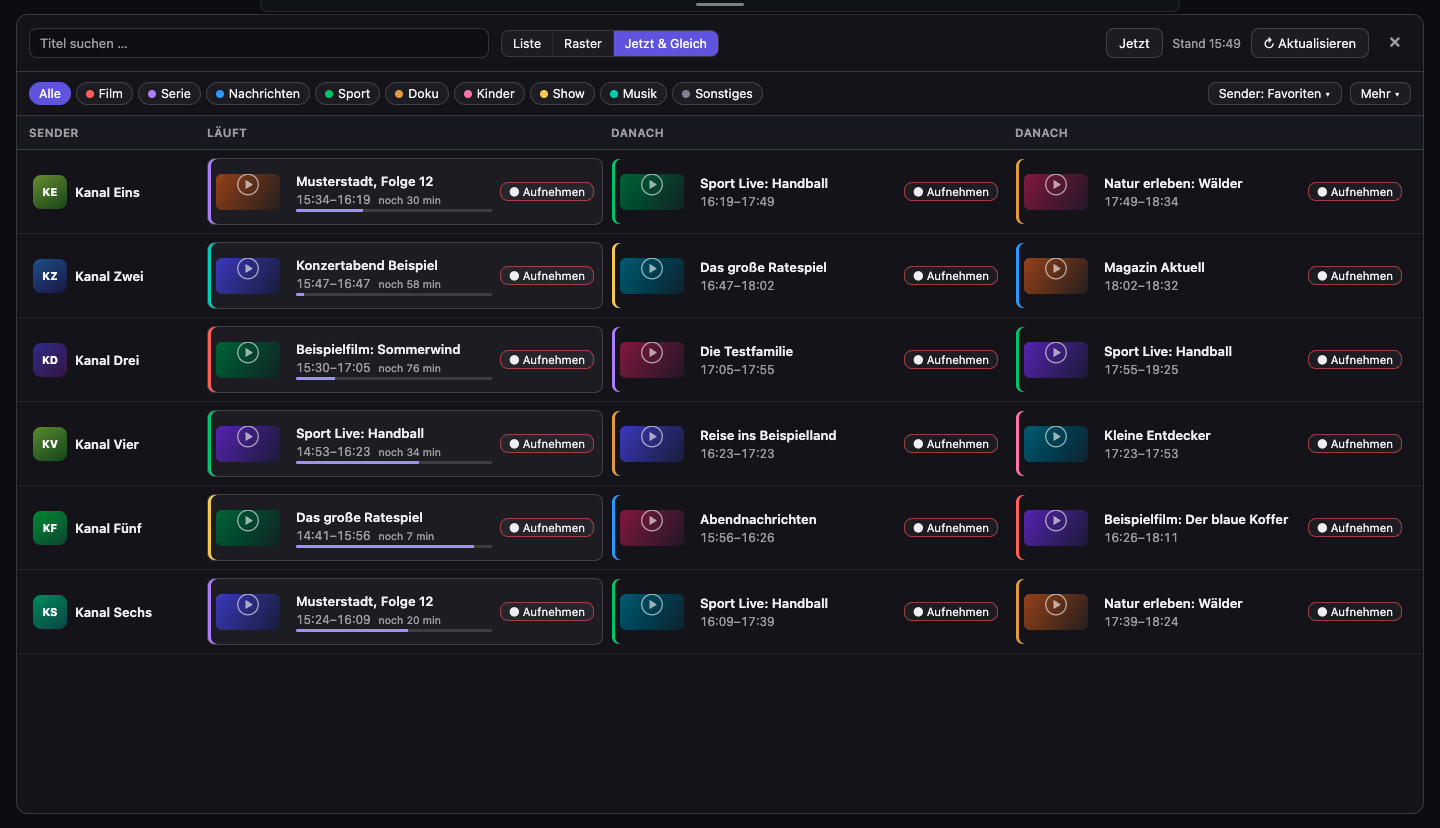
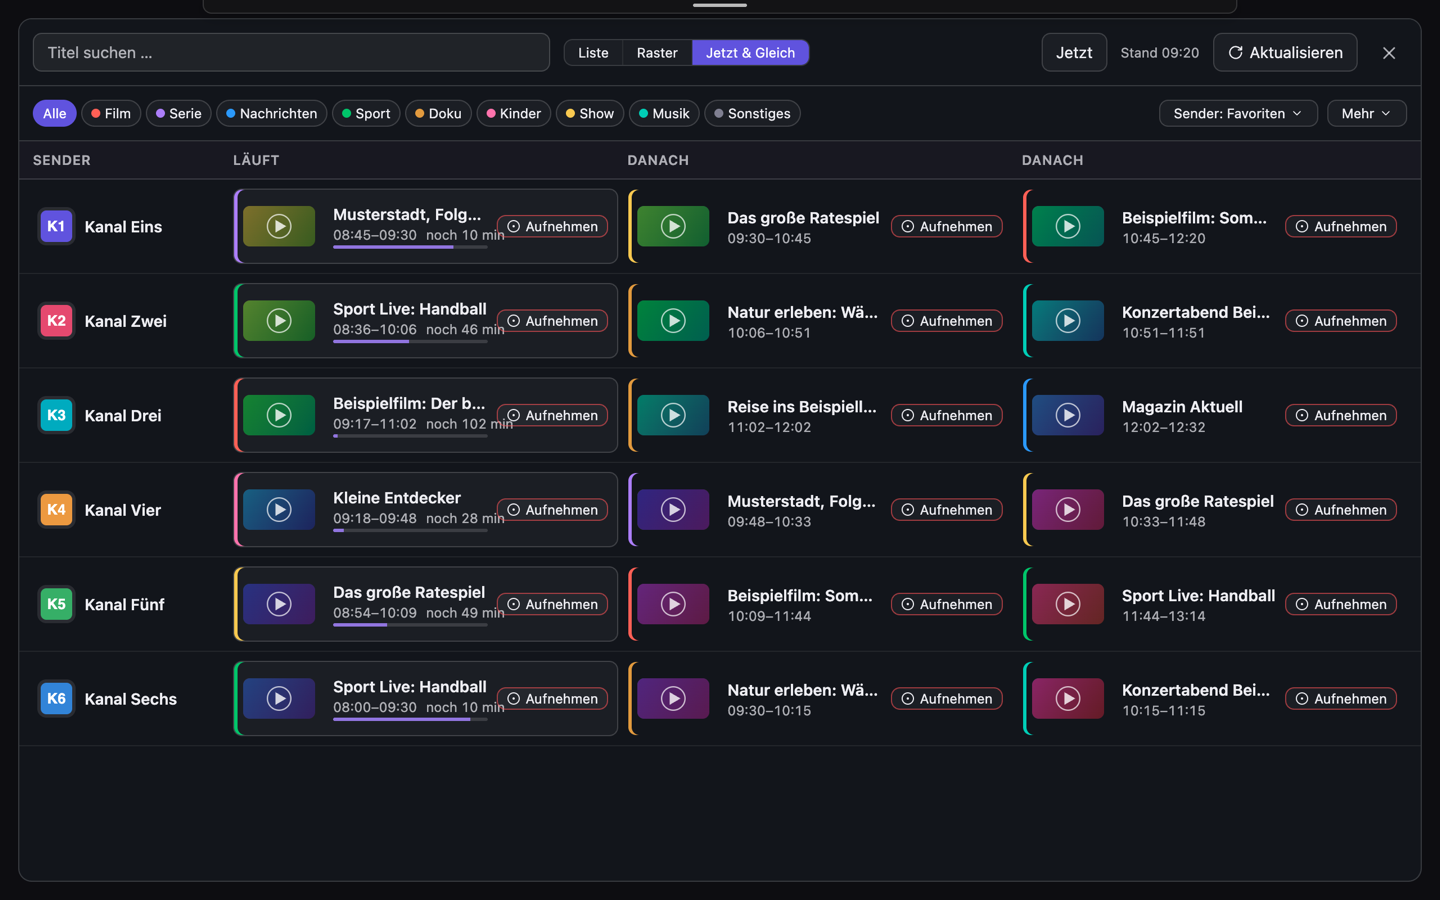
docs(design): README-Screenshots im neuen Design, GIF der Hover-Vorschau (8c)

Changed region(s): [[0.0, 0.0, 0.9688, 0.8152], [0.7188, 0.0302, 1.0, 0.151], [0.875, 0.4227, 0.9688, 0.4831]]

diff --git a/scripts/readme-screenshots-epg.js b/scripts/readme-screenshots-epg.js
@@ -1,0 +1,252 @@
+'use strict';
+
+// Erzeugt die EPG-Screenshots der README (epg-liste, epg-raster, epg-jetzt-gleich, epg-genre-filter, epg-kanalansicht,
+// epg-sendung-detail), den Aufnahme-Dialog (aufnahme-dialog.png) und das GIF der Hover-Vorschau auf einer
+// Senderkachel (livetv-hover-vorschau.gif) aus einem isolierten Profil mit erfundenen Daten: Kanal Eins bis Sechs,
+// XMLTV-Fixture, Poster/Vorschaubilder als lokal beantwortete SVGs (page.route), Videobild aus einem lokal erzeugten
+// HLS-Teststrom (ffmpeg lavfi, Server auf localhost (die E2E-Startargumente sperren IP-Literale)). Kein Netz, keine echten Nutzerdaten.
+//
+// Aufruf (vorher `npm run build:renderer`): node scripts/readme-screenshots-epg.js [Zielordner]
+// Voraussetzung: bin/ffmpeg. Fenster 1280x800 bei Skalierung 2 (PNG 2560x1600, danach `sips -Z 1440 <Datei>`);
+// das GIF entsteht bei Skalierung 1 und 800 px Breite. Nur für Doku-Zwecke, scripts/ wird nicht ausgeliefert.
+
+const { execFileSync } = require('child_process');
+const fs = require('fs');
+const http = require('http');
+const os = require('os');
+const path = require('path');
+const { _electron: electron } = require('@playwright/test');
+const { resolveLaunchTarget, launchArgs, backgroundEnv } = require('../e2e/platform');
+
+const OUT = path.resolve(process.argv[2] || path.join(__dirname, '..', 'assets', 'screenshots'));
+const FFMPEG = path.join(__dirname, '..', 'bin', 'ffmpeg');
+const MIN = 60 * 1000;
+const sleep = ms => new Promise(resolve => setTimeout(resolve, ms));
+const NAMES = ['Kanal Eins', 'Kanal Zwei', 'Kanal Drei', 'Kanal Vier', 'Kanal Fünf', 'Kanal Sechs'];
+const COLORS = ['#6c5ce7', '#e0527a', '#2db4c8', '#e8a33c', '#52b86f', '#4a8fe0'];
+const SHOWS = [
+  ['Musterstadt, Folge 12', 'Serie', 45],
+  ['Konzertabend Beispiel', 'Musik', 60],
+  ['Abendnachrichten', 'Nachrichten', 30],
+  ['Sport Live: Handball', 'Sport', 90],
+  ['Reise ins Beispielland', 'Dokumentation', 60],
+  ['Das große Ratespiel', 'Show', 75],
+  ['Die Testfamilie', 'Serie', 50],
+  ['Kleine Entdecker', 'Kinder', 30],
+  ['Natur erleben: Wälder', 'Dokumentation', 45],
+  ['Magazin Aktuell', 'Nachrichten', 30],
+  ['Beispielfilm: Sommerwind', 'Film', 95],
+  ['Beispielfilm: Der blaue Koffer', 'Film', 105],
+];
+const DETAIL = 'Beispielfilm: Der blaue Koffer';
+
+function xmltvTime(ms) {
+  const d = new Date(ms);
+  const p = n => String(n).padStart(2, '0');
+  return `${d.getUTCFullYear()}${p(d.getUTCMonth() + 1)}${p(d.getUTCDate())}${p(d.getUTCHours())}${p(d.getUTCMinutes())}00 +0000`;
+}
+
+function buildEpg(base) {
+  const out = ['<?xml version="1.0" encoding="UTF-8"?><tv>'];
+  NAMES.forEach((name, i) => out.push(`<channel id="k${i + 1}.example"><display-name>${name}</display-name></channel>`));
+  let n = 0;
+  NAMES.forEach((_name, i) => {
+    let t = base - (35 + i * 9) * MIN;
+    for (let k = 0; t < base + 60 * 60 * MIN; k += 1) {
+      const [title, genre, minutes] = SHOWS[(k * 5 + i * 3) % SHOWS.length];
+      const full = title === DETAIL;
+      const extra = full
+        ? '<sub-title lang="de">Ein Beispiel-Untertitel</sub-title><credits><director>Anna Beispiel</director><actor>Max Mustermann</actor><actor>Erika Musterfrau</actor><actor>Jan Testmann</actor></credits><date>2021</date><episode-num system="onscreen">S2 E3</episode-num><rating system="FSK"><value>FSK 12</value></rating>'
+        : '';
+      n += 1;
+      out.push(
+        `<programme start="${xmltvTime(t)}" stop="${xmltvTime(t + minutes * MIN)}" channel="k${i + 1}.example"><title lang="de">${title}</title>${extra}<desc lang="de">Kurzbeschreibung der Beispielsendung „${title}“. Alle Inhalte sind frei erfundene Testdaten.</desc><category lang="de">${genre}</category><icon src="https://bilder.example/p/${n}.svg"/></programme>`,
+      );
+      t += minutes * MIN;
+    }
+  });
+  out.push('</tv>');
+  return out.join('\n');
+}
+
+function posterSvg(n) {
+  const hue = (n * 47) % 360;
+  return `<svg xmlns="http://www.w3.org/2000/svg" viewBox="0 0 160 240"><defs><linearGradient id="g" x1="0" y1="0" x2="1" y2="1"><stop offset="0" stop-color="hsl(${hue},55%,38%)"/><stop offset="1" stop-color="hsl(${(hue + 50) % 360},60%,24%)"/></linearGradient></defs><rect width="160" height="240" fill="url(#g)"/><circle cx="80" cy="120" r="26" fill="none" stroke="#fff" stroke-opacity=".7" stroke-width="3"/><path d="M72 106l24 14-24 14z" fill="#fff" fill-opacity=".8"/></svg>`;
+}
+
+/** HLS-Teststrom (VOD-Liste, 14 s buntes Muster) und Server mit CORS auf localhost. */
+async function startStream(dir) {
+  const hls = path.join(dir, 'hls');
+  fs.mkdirSync(hls);
+  execFileSync(
+    FFMPEG,
+    ['-v', 'error', '-f', 'lavfi', '-i', 'gradients=s=640x360:r=25:d=14:speed=0.03:n=4', '-an', '-c:v', 'libx264', '-preset', 'veryfast', '-pix_fmt', 'yuv420p', '-g', '25', '-f', 'hls', '-hls_time', '2', '-hls_list_size', '0', '-hls_playlist_type', 'vod', path.join(hls, 'live.m3u8')],
+    { timeout: 120_000 },
+  );
+  const server = http.createServer((req, res) => {
+    const file = path.join(hls, path.basename(req.url.split('?')[0]));
+    if (!fs.existsSync(file)) {
+      res.writeHead(404);
+      res.end();
+      return;
+    }
+    const type = file.endsWith('.m3u8') ? 'application/vnd.apple.mpegurl' : 'video/mp2t';
+    res.writeHead(200, { 'Content-Type': type, 'Access-Control-Allow-Origin': '*', 'Cache-Control': 'no-store' });
+    res.end(fs.readFileSync(file));
+  });
+  await new Promise(resolve => server.listen(0, '127.0.0.1', resolve));
+  return { server, url: `http://localhost:${server.address().port}/live.m3u8` };
+}
+
+async function launch(root, base, streamUrl, scale) {
+  const home = path.join(root, 'home');
+  const userData = path.join(root, 'ud');
+  const logos = path.join(root, 'logos');
+  [home, userData, logos].forEach(d => fs.mkdirSync(d, { recursive: true }));
+  const channels = NAMES.map((name, i) => {
+    const logo = path.join(logos, `${i + 1}.svg`);
+    fs.writeFileSync(logo, `<svg xmlns="http://www.w3.org/2000/svg" viewBox="0 0 100 100"><rect width="100" height="100" rx="18" fill="${COLORS[i]}"/><text x="50" y="66" font-family="Helvetica,Arial,sans-serif" font-size="46" font-weight="700" text-anchor="middle" fill="#fff">K${i + 1}</text></svg>`);
+    return { id: `k${i + 1}.example`, name, logo: `file://${logo}` };
+  });
+  const m3u = path.join(root, 'beispiel.m3u');
+  fs.writeFileSync(m3u, '#EXTM3U\n' + channels.map(c => `#EXTINF:-1 tvg-id="${c.id}" tvg-logo="${c.logo}" group-title="Allgemein",${c.name}\n${streamUrl}\n`).join(''));
+  const epg = path.join(root, 'epg.xml');
+  fs.writeFileSync(epg, buildEpg(base));
+  fs.writeFileSync(path.join(userData, 'tvsources.json'), JSON.stringify([{ id: 'bsq', name: 'Beispielquelle', url: m3u, type: 'file', color: '#a78bfa', epgUrl: 'https://epg.example/epg.xml', sortOrder: [], favorites: channels.map(c => c.id) }]));
+  const target = resolveLaunchTarget();
+  const app = await electron.launch({
+    executablePath: target.executablePath,
+    args: [...launchArgs(target), `--force-device-scale-factor=${scale}`],
+    env: { ...process.env, HOME: home, STREAMING_HUB_USER_DATA: userData, ...backgroundEnv(), STREAMING_HUB_EPG_FIXTURE: epg, STREAMING_HUB_UPDATE_URL: 'http://127.0.0.1:9' },
+    timeout: 45_000,
+  });
+  const page = await app.firstWindow();
+  if (process.env.DBG) page.on('console', m => console.log('[c]', m.text().slice(0, 200)));
+  await page.waitForLoadState('domcontentloaded');
+  await page.emulateMedia({ colorScheme: 'dark' }); // README zeigt das dunkle Design
+  await page.locator('#dashboardView').waitFor();
+  await app.evaluate(({ BrowserWindow }) => BrowserWindow.getAllWindows()[0].setContentSize(1280, 800));
+  await page.route('https://bilder.example/**', route => {
+    const n = Number((route.request().url().match(/(\d+)\.svg/) || [0, 1])[1]);
+    return route.fulfill({ status: 200, contentType: 'image/svg+xml', body: posterSvg(n) });
+  });
+  for (let i = 0; i < 60; i += 1) {
+    const status = await page.evaluate(() => window.electronAPI.getEpgStatus());
+    if (status.sources.reduce((n, s) => n + s.channelCount, 0) >= 6) break;
+    await sleep(500);
+  }
+  await sleep(800);
+  return { app, page };
+}
+
+async function epgShots(root, base, streamUrl) {
+  const { app, page } = await launch(root, base, streamUrl, 2);
+  const shot = async name => {
+    await page.mouse.move(640, 790);
+    await sleep(900);
+    await page.screenshot({ path: path.join(OUT, name) });
+    console.log('ok', name);
+  };
+  await page.locator('.dashboard-section-tile[data-section="livetv"]').click();
+  await page.locator('#dashboardEpgOpen').click();
+  await page.locator('#epgOverlay').waitFor({ state: 'visible' });
+  await page.mouse.move(640, 790);
+  await page.locator('#epgOverlay[data-state="ready"]').waitFor();
+  await page.locator('#epgModeList').click();
+  await sleep(600);
+  await shot('epg-liste.png');
+  await page.locator('#epgModeGrid').click();
+  await page.locator('#epgGrid').waitFor({ state: 'visible' });
+  await shot('epg-raster.png');
+  await page.locator('#epgModeJng').click();
+  await page.locator('#epgJng').waitFor({ state: 'visible' });
+  await shot('epg-jetzt-gleich.png');
+  await page.locator('#epgModeList').click();
+  await page.locator('#epgGenre_film').click();
+  await sleep(500);
+  await shot('epg-genre-filter.png');
+  await page.locator('#epgGenreAll').click();
+  await sleep(300);
+  await page.locator('.epg-list-row', { hasText: DETAIL }).first().locator('.epg-row-open').click();
+  await page.locator('#epgDetailBackdrop').waitFor({ state: 'visible' });
+  await shot('epg-sendung-detail.png');
+  await page.locator('#epgDetailChannelBtn, #epgDetailAllBtn, button:has-text("Alle Sendungen des Senders")').first().click();
+  await sleep(900);
+  await shot('epg-kanalansicht.png');
+  await app.close().catch(() => {});
+}
+
+async function recordDialog(root, base, streamUrl) {
+  const { app, page } = await launch(root, base, streamUrl, 2);
+  await page.locator('.dashboard-section-tile[data-section="livetv"]').click();
+  await page.locator('#dashboardHub').waitFor({ state: 'visible' });
+  await page.locator('.dashboard-tv-tile', { hasText: 'Kanal Eins' }).first().click();
+  await sleep(4000);
+  const tv = app.windows().find(w => w.url().includes('tv.html'));
+  await tv.emulateMedia({ colorScheme: 'dark' });
+  await page.mouse.move(640, 740);
+  await sleep(300);
+  await page.mouse.move(700, 760);
+  await sleep(500);
+  await tv.locator('#tvRecordBtn').click({ timeout: 8000 }).catch(() => tv.locator('#tvRecordBtn').dispatchEvent('click'));
+  await tv.locator('#tvRecStartShow').waitFor({ state: 'visible' });
+  await page.mouse.move(1000, 640);
+  await sleep(800);
+  await page.screenshot({ path: path.join(OUT, 'aufnahme-dialog.png') });
+  console.log('ok aufnahme-dialog.png');
+  await app.close().catch(() => {});
+}
+
+async function hoverGif(root, base, streamUrl) {
+  const { app, page } = await launch(root, base, streamUrl, 1);
+  await page.locator('.dashboard-section-tile[data-section="livetv"]').click();
+  await page.locator('#dashboardHub').waitFor({ state: 'visible' });
+  const tile = page.locator('.dashboard-tv-tile', { hasText: 'Kanal Zwei' }).first();
+  await tile.scrollIntoViewIfNeeded();
+  await sleep(800);
+  if (process.env.DBG) console.log(await page.evaluate(async u => { try { const r = await fetch(u); const t = await r.text(); const seg = t.split('\n').find(l => l.endsWith('.ts')); const r2 = await fetch(new URL(seg, u)); return r.status + ' ' + t.slice(0, 80).replace(/\n/g, '|') + ' seg ' + r2.status + ' ' + r2.headers.get('content-type'); } catch (e) { return 'ERR ' + e.message; } }, streamUrl));
+  const box = await tile.boundingBox();
+  if (process.env.DBG) await page.evaluate(() => { window.__ev = []; const t = document.querySelectorAll('.dashboard-tv-tile')[1]; for (const e of ['mouseenter', 'mouseleave', 'focus', 'blur']) t.addEventListener(e, () => window.__ev.push(e + '@' + Math.round(performance.now()))); window.__log = []; new MutationObserver(ms => ms.forEach(m => m.addedNodes.forEach(n => { if (n.tagName === 'VIDEO') { window.__log.push('video+'); for (const e of ['error', 'playing', 'loadeddata', 'emptied']) n.addEventListener(e, () => window.__log.push(e + (n.error ? n.error.message : ''))); } }))).observe(t, { childList: true }); });
+  const frames = path.join(root, 'frames');
+  fs.mkdirSync(frames);
+  let count = 0;
+  const grab = async () => page.screenshot({ path: path.join(frames, `f${String(count++).padStart(3, '0')}.png`) });
+  await page.mouse.move(640, 790);
+  const t0 = Date.now();
+  for (let i = 0; i < 4; i += 1) await grab();
+  await page.mouse.move(box.x + box.width / 2, box.y + box.height / 2, { steps: 6 });
+  while (Date.now() - t0 < 6500) await grab();
+  if (process.env.DBG) console.log(await page.evaluate(() => { const v = document.querySelector('.dashboard-tv-preview'); return JSON.stringify({ v: !!v, err: v && v.error && v.error.message, rs: v && v.readyState, cls: document.querySelector('.is-previewing') !== null, hls: typeof Hls, log: window.__log, ev: window.__ev }); }));
+  await page.mouse.move(640, 790, { steps: 6 });
+  const t1 = Date.now();
+  while (Date.now() - t1 < 1200) await grab();
+  const fps = (count / ((Date.now() - t0) / 1000)).toFixed(2);
+  console.log('frames', count, 'fps', fps);
+  const gif = path.join(OUT, 'livetv-hover-vorschau.gif');
+  execFileSync(FFMPEG, ['-v', 'error', '-y', '-framerate', fps, '-i', path.join(frames, 'f%03d.png'), '-vf', 'scale=800:-1:flags=lanczos,split[a][b];[a]palettegen=stats_mode=diff:max_colors=96[p];[b][p]paletteuse=dither=bayer:bayer_scale=4:diff_mode=rectangle', '-loop', '0', gif], { timeout: 120_000 });
+  console.log('ok', gif, fs.statSync(gif).size);
+  await app.close().catch(() => {});
+}
+
+(async () => {
+  const mode = process.argv[3] || 'all';
+  const root = fs.realpathSync(fs.mkdtempSync(path.join(os.tmpdir(), 'shsh-epg-')));
+  fs.mkdirSync(OUT, { recursive: true });
+  const { server, url } = await startStream(root);
+  const base = Math.floor(Date.now() / MIN) * MIN;
+  try {
+    for (const [key, fn] of [['epg', epgShots], ['rec', recordDialog], ['gif', hoverGif]]) {
+      if (mode !== 'all' && mode !== key) continue;
+      const sub = path.join(root, key);
+      fs.mkdirSync(sub);
+      await fn(sub, base, url);
+    }
+  } finally {
+    server.close();
+    fs.rmSync(root, { recursive: true, force: true });
+  }
+  process.exit(0);
+})().catch(err => {
+  console.error(err);
+  process.exit(1);
+});

diff --git a/scripts/readme-screenshots.js b/scripts/readme-screenshots.js
@@ -99,6 +99,7 @@ function prepare(base) {
   });
   const page = await app.firstWindow();
   await page.waitForLoadState('domcontentloaded');
+  await page.emulateMedia({ colorScheme: 'dark' }); // README zeigt das dunkle Design
   await page.locator('#dashboardView').waitFor();
   await app.evaluate(({ BrowserWindow }) => BrowserWindow.getAllWindows()[0].setContentSize(1280, 800));
   await sleep(800);
@@ -151,8 +152,6 @@ function prepare(base) {
 
   await nav('settings').click();
   await page.locator('#settingsNav').waitFor();
-  const group = page.locator('#settingsNav .settings-nav-group');
-  if ((await group.getAttribute('aria-expanded')) !== 'true') await group.click();
   await page.locator('#settingsTab-livetv-channels').click();
   await page.locator('#settingsTvChannelsList').waitFor();
   await sleep(600);

diff --git a/scripts/readme-screenshots-radio.js b/scripts/readme-screenshots-radio.js
@@ -56,6 +56,7 @@ const PLAYING = 'swr3';
   });
   const page = await app.firstWindow();
   await page.waitForLoadState('domcontentloaded');
+  await page.emulateMedia({ colorScheme: 'dark' }); // README zeigt das dunkle Design
   await page.locator('#dashboardView').waitFor();
   await app.evaluate(({ BrowserWindow }) => BrowserWindow.getAllWindows()[0].setContentSize(1280, 800));
   await sleep(800);

diff --git a/docs/design-umbau-plan.md b/docs/design-umbau-plan.md
@@ -72,7 +72,7 @@ Repos: Desktop = `streaming-hub` (Branch `design/umbau`), Apple = `StreamingHub-
 - 8a, erledigt (QA ausstehend): Mini-Player (`--mini-c` je Modus) sowie Cover-Raster und Bildkarte auf Tokens; Details und Ausnahmen in DESIGN.md (Mini-Player, Cover-Raster und Bildkarte).
 - 8b, erledigt (QA ausstehend): EPG (Raster, Liste, Details) auf Tokens (Schrift 12/14/20, `space-*`, `radius-*`, `--epg-*` auf `surface-1`/`surface-inset`/`border-strong`/`text-secondary`/`area-livetv`); `genre-*` und `on-genre` in `:root` mit getesteten Werten (DESIGN.md „EPG-Genrefarben“); neues Token `surface-inset` (auch Mediathek-Vorschau-Grund); Komponenten Dialog, Verlauf-Zeile, Fehler-/Leerzustand und Bauteilmaße (Ausnahmen) in DESIGN.md; Dialog-Panels einheitlich `surface-3`/`radius-xl`; EPG-Fehlerzustand mit Icon; Nachzügler aus 8a erledigt.
 - Offen (nicht 8b): Mediathek-Palette `--md-*` und Bereichs-Dialoge der Einstellungen/Aufnahmen-Liste nur teilweise auf Tokens (Abstände/Schrift ja, Flächen `--md-*` bleiben).
-- Danach: README-Screenshots erneuern, kurzes GIF der Hover-Vorschau.
+- 8c, erledigt: README-Screenshots (alle 19 eingebundenen Bilder, dunkel, Testdaten) erneuert, GIF der Hover-Vorschau `livetv-hover-vorschau.gif` ergänzt. Erzeugung: `scripts/readme-screenshots.js`, `-radio.js`, `-epg.js` (EPG, Aufnahme-Dialog, GIF). Schritt 8 damit erledigt.
 
 ## Apple (nach 0b und Desktop-Schritt 1)
 

diff --git a/README.md b/README.md
@@ -112,6 +112,10 @@ Wähle in der Navigationsleiste **LiveTV**. Oben stehen zwei große Karten: **Pr
 
 ![Live-TV-Dashboard mit den Karten Programmübersicht und Aufnahmen, Werkzeugleiste und Favoriten (Beispieldaten)](assets/screenshots/livetv-dashboard.png)
 
+Beim Überfahren einer Senderkachel mit der Maus (oder per Tastaturfokus) startet nach kurzer Verzögerung eine stumme Vorschau des laufenden Programms; es läuft immer nur eine Vorschau.
+
+![Hover-Vorschau auf einer Senderkachel: nach kurzer Verzögerung blendet das Livebild ein (Teststrom)](assets/screenshots/livetv-hover-vorschau.gif)
+
 #### Sender verwalten
 
 Die Senderverwaltung findest du unter **Einstellungen → LiveTV → Sender** (auch über **Senderverwaltung** im Live-TV-Dashboard). Sie bietet eine Suche, getrennte Ansichten für alle Sender und Favoriten sowie Sortierung und Senderbearbeitung (Name, EPG-Zuweisung, Logo, Stream-URL). Ein Hinweis zeigt, ob zu einem Sender EPG-Daten gefunden wurden.
